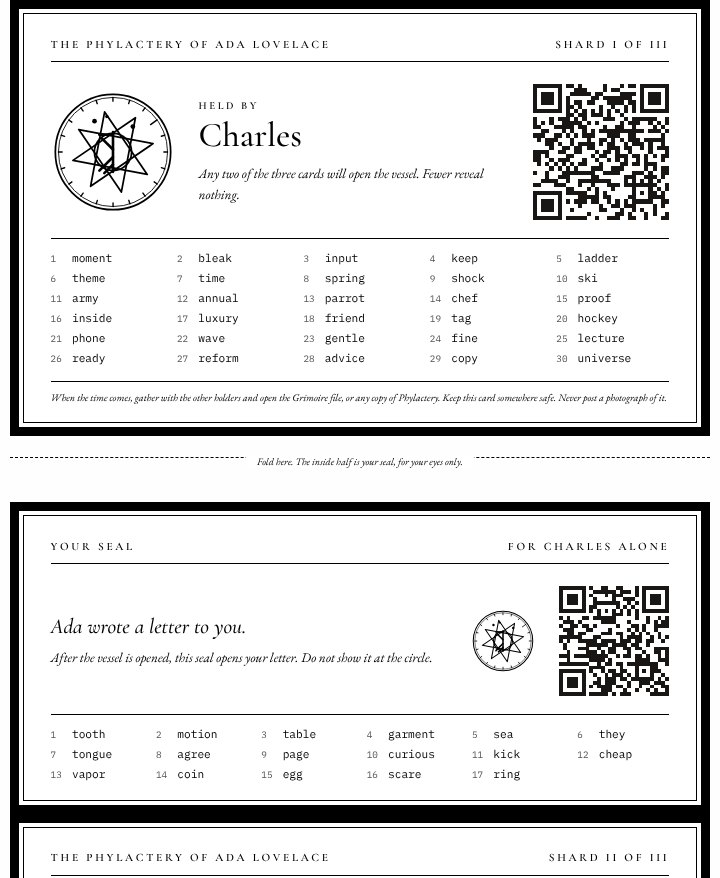
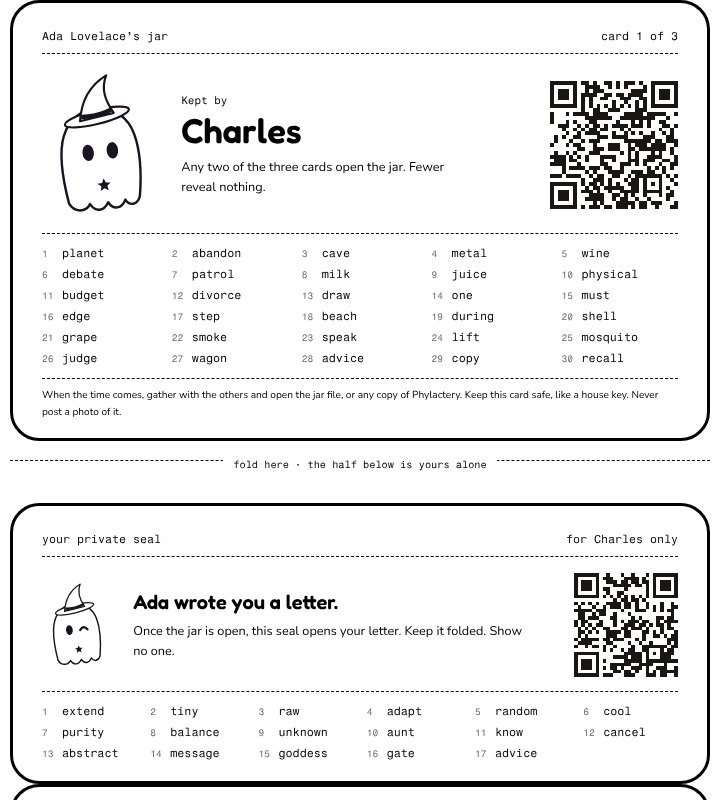
CI workflow, README and screenshots for the new design
- .github/workflows/ci.yml: typecheck, lint, tests, build and the e2e
  walk-through (with accessibility audits and the real watch flow) on
  every push and pull request; screenshots kept as an artifact.
- README rewritten for the cute redesign: the three acts, the cast and
  what each element does, the watch service and its safeguards, local
  serving, GitHub Pages and Netlify deployment, and the test suite.
- Fresh screenshots of every key screen.

Changed region(s): [[0.0, 0.0, 1.0, 1.0]]

diff --git a/README.md b/README.md
@@ -1,120 +1,134 @@
 # Phylactery
 
-**Seal what you want to leave behind. Split the key among the people you trust. Only together can they open it.**
+**A tiny ghost keeps your last words.** Write what your people will need, seal it in a jar, give each friend a card. Only together can they open it.
 
 An entry for [Kiroween 2026](https://kiroween.devpost.com/), **Costume Contest** category.
 
-![The vessel opens when the third candle is lit](docs/screenshots/opening.jpg)
+![Friends light their candles and the little ghost wakes up](docs/screenshots/opening.jpg)
 
-## The problem
+## Why
 
-When someone dies, the people closest to them are locked out: of accounts, of photos, of the password manager that holds everything else, of the small instructions nobody wrote down. The tools that exist each solve a piece. Daily check-in apps notice that something happened but stop there. Digital-legacy services keep your secrets on their servers and hand everything to a single person. Platform legacy settings are scattered and rarely set up.
+When someone dies, the people closest to them are locked out: of accounts, of photos, of the password manager that holds everything else, of the small instructions nobody wrote down. The tools that exist each solve a piece. Check-in apps notice that something happened and stop there. Digital-legacy services keep your secrets on their servers and hand everything to one person. Platform legacy settings are scattered and rarely set up.
 
-Phylactery joins the pieces: noticing, handing over, and making sure no single person, company or server can open what you left.
+Phylactery joins the pieces, and makes a heavy subject gentle: death as a reunion, not a horror story.
 
-## How it works: three acts
+## Three acts
 
-**I. The Seal.** While you are here, write a message to everyone, the accounts you keep and how to get into them, where things are, and your wishes. Add a private letter for any person. Everything is encrypted in your browser. The key is split into one card per person in your circle, and you choose how many cards it takes to open it.
+**I. Seal.** Write a note for everyone, the accounts you keep and how to get in, where things are, and your wishes. Add a private letter for anyone. Everything is encrypted in your browser and the key is split into one card per friend. You choose how many must gather. Before you print, Phylactery proves it works: every group of that size opens the jar, and no smaller group does.
 
-**II. The Watch.** On a rhythm you choose, a quiet question: *are you still here?* One tap answers. If you fall silent you are reminded, and only after a grace period are your people asked to *check on you*, never told that you are gone. Knock thrice to stop it.
+**II. Watch.** Every so often, one gentle question: *still here?* One tap answers it. Go quiet, and you are reminded. Only then are your friends asked to *check on you*, never told you are gone. Answer late, and they hear that all is well.
 
-**III. The Séance.** When the time comes, your people gather with their cards. Each card lights a candle. When enough are lit, the seal cracks and the vessel opens. Each letter then opens only with its reader's own seal, folded inside their card.
+**III. Séance.** When the time comes, friends bring their cards. Each card lights a sleepy candle and its little ghost buddy floats in. When enough candles are lit, the wax seal cracks, the cork pops, and the ghost wakes up and hands over your words. Each letter then opens only with the private seal folded inside its reader's card.
 
 | | |
 |---|---|
-| ![Lighting candles around the circle](docs/screenshots/seance.jpg) | ![A letter, opened with its reader's seal](docs/screenshots/letter.jpg) |
-| ![A printed card: shard outside, personal seal inside](docs/screenshots/card.jpg) | ![The watch: the mourning border widens as the circle is asked](docs/screenshots/watch.jpg) |
+| ![Home](docs/screenshots/home.jpg) | ![Sealed: a fan of cards and a self-check](docs/screenshots/sealed.jpg) |
+| ![The séance, two candles lit](docs/screenshots/seance.jpg) | ![What June left](docs/screenshots/reveal.jpg) |
+| ![A letter, opened with Clara's seal](docs/screenshots/letter.jpg) | ![The watch: the ghost gets worried](docs/screenshots/watch.jpg) |
 
-## Every spooky element does a job
+## The costume
 
-The look is Victorian mourning stationery by day and a candlelit séance by night. Nothing is decoration only:
+Kiroween purple, soft round shapes, and a cast of ghosts drawn as SVG. Every spooky element does a job:
+
+![The cast](docs/screenshots/cast.jpg)
 
 | Element | What it tells you |
 |---|---|
-| Candles around the circle | How many cards have been offered: the unlock progress |
-| The wax seal | Whether the vessel is encrypted (pressed) or open (cracked) |
-| The black border around the page | The state of the watch. Victorian mourning paper used a wider black edge for deeper mourning; here it widens as reminders go out and the circle is asked |
-| The sigil on each card | A visual fingerprint: the mark on screen must match the mark on paper, so nobody offers the wrong card |
-| Day and night | Paper and ink while you write; candlelight when your people gather |
+| A card's ghost buddy | A visual fingerprint. Each card in a circle gets its own costume and emblem, derived from the jar and the card, so the ghost on screen must match the ghost on paper |
+| Sleepy candles | Unlock progress: each card wakes one candle |
+| The ghost in the jar | Asleep while sealed, stirring as candles light, out and happy when open |
+| The wax seal | Pressed when the jar is encrypted, cracked when it opens |
+| The watch ghost's face | The watch state: happy, asking, worried, or holding up a sign for your friends |
+| Day and night | Lilac paper while you write; a starry night when friends gather |
 
-All sounds (a match struck, a flame catching, wax pressed and cracking, a small bell) are synthesised live with the Web Audio API. There are no audio files. Sound is off until you turn it on. With *reduce motion* set in the operating system, every state is kept and the movement is dropped.
+Motion is springy and small: ghosts bob and blink out of step, candles wobble, buttons press down, cards fly from the table to their candle, envelopes open and letters slide out. All sounds (a match, a flame, wax pressed and cracking, a bell) are synthesised live with the Web Audio API; there are no audio files, and sound is off until you turn it on. With *reduce motion* set, every state is kept and the movement is dropped. Printed cards are black-and-white line art.
 
 ## Three promises
 
-1. **No one can open it alone.** Not one friend, not a company, not us. The 256-bit key is split with Shamir's Secret Sharing; fewer cards than the threshold reveal nothing about it.
-2. **Nothing leaves your hands.** There are no accounts, no analytics, and no requests to other servers. Fonts are bundled. The hosted page may only contact its own origin.
-3. **It will outlast us.** Sealing produces a **Grimoire**: this whole app as a single HTML file with your encrypted vessel inside, under a Content Security Policy that forbids any network access. It opens offline, from a USB stick or an email attachment, years from now, even if this website is gone.
+1. **No one opens it alone.** Not one friend, not a company, not us. The 256-bit key is split with Shamir's Secret Sharing; fewer cards than the threshold reveal nothing.
+2. **Nothing leaves your hands.** No accounts, no analytics, no requests to other servers. The watch service only ever knows names, email addresses and times.
+3. **It outlives us.** Sealing makes a jar file: this whole app as one HTML file with your encrypted jar inside, under a Content Security Policy that forbids any network access. It opens offline, years from now, even if this website is gone.
 
 ## Try it
 
-- **The demonstration vessel.** Open *Séance* and choose *The demonstration vessel*. June Alder sealed hers with five cards; three of them open it. Click any three cards on the table, or type a card's 30 words. Then open a letter with that person's seal.
-- **Seal your own.** Open *Seal*, write, choose your circle, press the seal, and print the cards (one page per person; fold the seal half inward).
-- **See the watch.** Open *Watch* and press *Let time pass*.
-
-Hosted version: <https://plbbl.github.io/kiroween-2026/> (published by the GitHub Pages workflow once Pages is enabled for the repository).
+- **June's jar.** Open *Séance* and choose *June's jar*. Click any three cards on the table, or type a card's 30 words. Then open a letter with that person's seal.
+- **Seal your own.** Open *Seal*, write, choose your circle, seal, and print the cards (one page per friend; fold the seal half inward).
+- **The watch.** Open *Watch* and press *Let time pass* to see the rhythm. Where the watch service runs, start a real watch below it.
 
 ### Run it locally
 
 ```bash
 npm install
-npm run dev        # development server
-npm test           # property-based tests
-npm run build      # dist/index.html, a single self-contained file
-npm run e2e        # end-to-end walk-through with Playwright (after build)
+npm run dev        # the app, without the watch service
+npm run build      # dist/index.html, one self-contained file
+npm run serve      # the built app plus the watch service on http://localhost:8787
+npm run check      # types, lint, tests, build, and the end-to-end walk-through
 ```
 
-Node 22 or later.
+Node 22 or later. `npm run serve` keeps watches in `.data/watches.json` and writes mail to `.data/outbox.json` (also at `/api/dev/outbox`) instead of sending it, unless `RESEND_API_KEY` and `MAIL_FROM` are set.
+
+### Deploy
+
+- **GitHub Pages** (static; everything but the real watch): enable Pages with *GitHub Actions* as the source; `.github/workflows/pages.yml` deploys `main`.
+- **Netlify** (everything, including the watch): connect the repository; `netlify.toml` builds the app, serves the service from `netlify/functions` with Netlify Blobs storage and an hourly tick. Set `RESEND_API_KEY`, `MAIL_FROM` and `TICK_SECRET`.
 
 ## Security model
 
 | Who | What they can learn |
 |---|---|
-| Anyone holding the Grimoire or vessel file | The owner's name, the holders' names, the date sealed, how many cards are needed. Everything else is encrypted with AES-256-GCM |
-| One holder, or any group smaller than the threshold | Nothing more. Shamir shares below the threshold carry no information about the key |
-| A holder's personal seal on its own | Nothing. It only works together with an opened vessel |
-| The circle, once gathered | The vessel's contents, but not the private letters: each needs its reader's seal |
-| This website | Nothing. No content, cards or keys are ever sent anywhere |
-| Someone who steals enough cards | The vessel, but still not the letters. Keep cards like house keys |
+| Anyone holding the jar file | The owner's name, the friends' names, the date sealed, how many cards are needed. Everything else is AES-256-GCM encrypted |
+| One friend, or any group smaller than the threshold | Nothing more. Shamir shares below the threshold carry no information about the key |
+| A private seal on its own | Nothing. It only works together with an opened jar |
+| The circle, once gathered | The jar, but not the private letters: each needs its reader's seal |
+| The watch service | Names, email addresses, the rhythm and the times you checked in. Never a jar, a card or a key |
+| Someone who steals enough cards | The jar, but still not the letters. Keep cards like house keys |
 
-The readable header is bound to every ciphertext as additional authenticated data, so editing the owner, the date or the circle breaks decryption. Each card carries a SHA-256 checksum, in its QR code and in its words, so a mistyped word is caught.
+The readable header of a jar is bound to every ciphertext as additional authenticated data, so editing it breaks decryption. Every card carries a SHA-256 checksum, in its QR code and in its words, so a mistyped word is caught.
 
-Limits worth knowing: this is browser cryptography; the app as a whole has not had an independent audit (the Shamir library has, by Cure53 and Zellic); print spoolers and screenshots can keep copies of cards; a malicious browser extension can read any page. **The wishes in a vessel are not a legal will.**
+The watch service sends nothing until the owner confirms their address, stores its tokens only as SHA-256 hashes, rotates check-in links with each batch of questions, gives friends an opt-out link, and allows at most three watches per address.
+
+Limits worth knowing: this is browser cryptography; the app as a whole has not had an independent audit (the Shamir library has, by Cure53 and Zellic); print spoolers and screenshots can keep copies of cards; a malicious browser extension can read any page. **The wishes in a jar are not a legal will.**
 
 ## Built with
 
-- React 19, TypeScript, Vite; the build is a single HTML file via `vite-plugin-singlefile`
+- React 19, TypeScript, Vite; the app builds to a single HTML file via `vite-plugin-singlefile`
 - WebCrypto: AES-256-GCM and HKDF-SHA256
 - [`shamir-secret-sharing`](https://github.com/privy-io/shamir-secret-sharing) (Apache-2.0), independently audited
-- [`@scure/bip39`](https://github.com/paulmillr/scure-bip39) word list and [`@noble/hashes`](https://github.com/paulmillr/noble-hashes) SHA-256 (MIT)
-- [`qrcode`](https://github.com/soldair/node-qrcode) (MIT) and [`jsQR`](https://github.com/cozmo/jsQR) (Apache-2.0); the browser's `BarcodeDetector` is used when present
-- Fonts: Cormorant Garamond, EB Garamond, IBM Plex Mono (SIL Open Font License), bundled via Fontsource
-- Tests: [fast-check](https://github.com/dubzzz/fast-check) property-based tests with Vitest; Playwright end to end
-- The epigraph is from Marcus Aurelius, *Meditations*, in George Long's 1862 translation (public domain)
+- [`@scure/bip39`](https://github.com/paulmillr/scure-bip39) word list and [`@noble/hashes`](https://github.com/paulmillr/noble-hashes) (MIT)
+- [`qrcode`](https://github.com/soldair/node-qrcode) (MIT) and [`jsQR`](https://github.com/cozmo/jsQR) (Apache-2.0); the browser's `BarcodeDetector` when present
+- Fonts: Fredoka, Nunito and Fragment Mono (SIL Open Font License), bundled via Fontsource
+- The watch service: standard `Request`/`Response`, Netlify Functions and Blobs, Resend for email
+- All illustrations are original SVG drawn for this project
 
 ### Tests
 
-`npm test` runs 23 tests, most of them property-based, among them:
+`npm test` runs 33 tests, most of them property-based (fast-check), among them:
 
-- any set of cards at or above the threshold opens the vessel and returns exactly what was sealed;
-- any set one card short reveals nothing;
+- any set of cards at or above the threshold opens the jar and returns exactly what was sealed; one card short reveals nothing;
 - each letter opens only with its own seal, never with another holder's seal relabelled;
-- editing the readable header or the ciphertext breaks the vessel;
-- every card survives the round trip through its QR text and through its words, including sloppy typing;
-- someone who checks in on time never triggers a request to their circle, and the circle is never asked before the full silence period.
+- editing the readable header or the ciphertext breaks the jar;
+- every card survives the round trip through its QR text and its words, including sloppy typing;
+- buddies in a circle wear different costumes and carry different emblems;
+- someone who checks in on time never alarms anyone; friends are never asked before the full silence;
+- the watch service, with a fake clock: nothing before confirmation, reminders then friends then "all is well", pause, opt-out, rate limits, bad tokens.
 
-The property tests caught a real bug during development: the base32 decoder accepted non-canonical padding bits, so a damaged QR code could decode to the same card. Decoding is now strict.
+The property tests caught a real bug: the base32 decoder accepted non-canonical padding bits, so a damaged QR code could decode to the same card. Decoding is now strict.
 
-`npm run e2e` seals a vessel, prints the cards, downloads the Grimoire, opens it from disk with two typed cards, opens a letter with a typed seal, runs the demo séance and the watch, and checks a phone layout.
+`npm run e2e` seals a jar, checks the self-check, prints the cards, downloads the jar file and opens it from disk with two typed cards, opens a letter with a typed seal, runs June's séance and the watch preview, starts and confirms a real watch against a local server, checks phone layouts, and runs axe-core accessibility audits on eight screens (no serious or critical WCAG 2 A/AA issues allowed).
 
 ## Project layout
 
 ```
-src/core/      pure logic: cards, jar sealing and opening, sigils, watch schedule, tests
-src/pages/     Home, Seal, Watch, Séance, Guides
-src/ui/        components (candle, wax seal, vessel, sigil, cards), sound, styles
-src/demo/      the demonstration vessel and its cards (generated by scripts/make-demo-jar.ts)
-e2e/           Playwright walk-through
-.kiro/         Kiro specs, hooks and steering
+src/core/            cards, jars, buddies, the watch schedule, and their tests
+src/watch-service/   the watch service: logic, HTTP handler, adapters, tests
+src/pages/           home, seal/, seance/, watch/, guides
+src/ui/art/          the cast: ghosts, candles, jar, wax seal, emblems, sparkles
+src/ui/              components, styles, sound, the jar file (grimoire), shell
+src/demo/            June's jar and its cards (from scripts/make-demo-jar.ts)
+server/dev.ts        local server: the app plus the watch service
+netlify/functions/   the watch service on Netlify
+e2e/                 Playwright walk-through
+.kiro/               Kiro specs, hooks and steering
 ```
 
 ## How it was built
